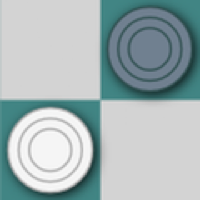
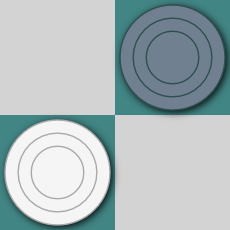
Обновлено лого.

Changed region(s): [[0.0, 0.0, 1.0, 1.0]]

diff --git a/rusdraughts/client/src/main/java/online/draughts/rus/client/application/widget/popup/DraughtsPlayerView.java b/rusdraughts/client/src/main/java/online/draughts/rus/client/application/widget/popup/DraughtsPlayerView.java
@@ -148,7 +148,6 @@ public class DraughtsPlayerView extends PopupViewWithUiHandlers<DraughtsPlayerUi
         hide();
       }
     });
-    Window.enableScrolling(false);
 
     setPopupPositioner(new PopupPositioner() {
       @Override
@@ -285,7 +284,7 @@ public class DraughtsPlayerView extends PopupViewWithUiHandlers<DraughtsPlayerUi
   }
 
   private void initMainPanel() {
-    int side = draughtsDeskColumn.getOffsetWidth();
+    int side = 1000; //draughtsDeskColumn.getOffsetWidth();
     int deskSide = side - 80;
 
     BoardBackgroundLayer boardBackground = new BoardBackgroundLayer(side, deskSide, rows, cols);

diff --git a/rusdraughts/client/src/main/java/online/draughts/rus/draughts/Board.java b/rusdraughts/client/src/main/java/online/draughts/rus/draughts/Board.java
@@ -1092,7 +1092,8 @@ public class Board extends Layer {
   }
 
   /**
-   * Отменяем первый ход? Тот который стоит за номером
+   * Отменяем первый ход? Тот который стоит за номером.
+   * Отменяем если ход первый и простой или ход первый и начало взятия
    *
    * @param canceled отменяемы ход
    * @return отменяем ли первый ход

diff --git a/rusdraughts/client/src/main/java/online/draughts/rus/client/resources/images/Images.java b/rusdraughts/client/src/main/java/online/draughts/rus/client/resources/images/Images.java
@@ -25,7 +25,7 @@ public interface Images extends ClientBundle {
   @Source("img/logo.png")
   ImageResource logo();
 
-  @Source("img/logo_new_year.png")
+  @Source("img/logo.png")
   ImageResource logoNewYear();
 
   @Source("img/online.png")
